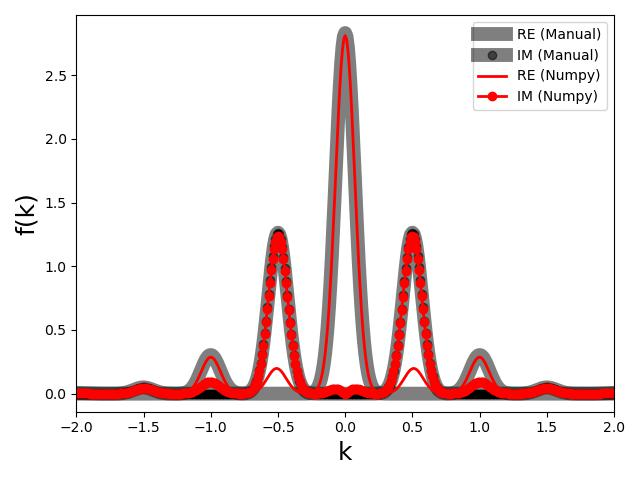
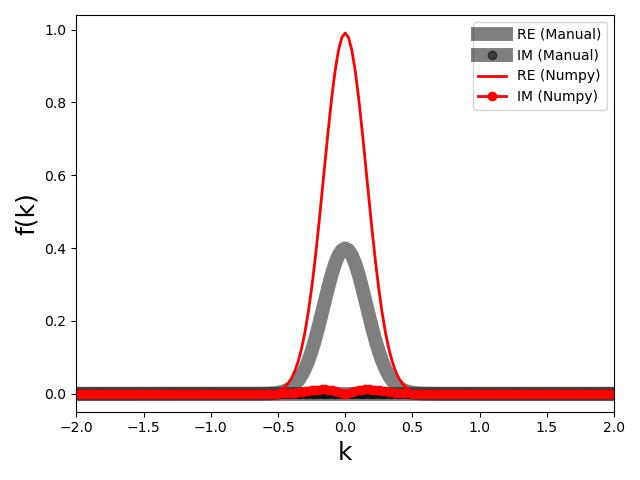
Updated

diff --git a/notes/codes/Chapter_4/1_Fourier_Transform_on_a_Discrete_Grid.py b/notes/codes/Chapter_4/1_Fourier_Transform_on_a_Discrete_Grid.py
@@ -16,8 +16,10 @@ def get_f_x():
     global x, dx, Lx, Nx
 
     # Gaussian Function
+    global sigma # For use when plotting the analytic result
+    sigma = 1
     x   = np.linspace(-20,20,1001)
-    f_x = np.sqrt(1/2/np.pi) * np.exp(-x**2 / 2) + 0j
+    f_x = np.sqrt(1/2/np.pi/sigma**2) * np.exp(-x**2 / 2 / sigma**2) + 0j
 
     ## Shifted Gaussian Function
     ## Shift in real-space results is phase change of the DFT
@@ -158,9 +160,6 @@ def plot_f_k(k,f_k,k_np,f_k_np,title):
     plt.plot( k_np,np.abs(f_k_np.real),"-", c='red', lw=2, label="RE (Numpy)" )
     plt.plot( k_np,np.abs(f_k_np.imag), "o-", c='red', lw=2, label="IM (Numpy)" )
 
-    # Gaussian function in k-space -- Analytic Result
-    #plt.plot( k, np.sqrt(1/2/np.pi) * np.exp(-2 * k**2 * np.pi**2), c="green", label="Gaussian" )
-
     plt.legend()
     plt.xlim(-2,2 )
     plt.xlabel("k", fontsize=18)
@@ -176,8 +175,8 @@ def plot_f_k(k,f_k,k_np,f_k_np,title):
     plt.plot( k, f_k.imag, "-", c='red',   lw=2, label="IM" )
 
     # Gaussian function in k-space -- Analytic Result
-    #analytic_func_k = np.sqrt(1/2/np.pi) * np.exp(-2 * k**2 * np.pi**2)
-    #plt.plot( k, analytic_func_k, c="green", label="Gaussian" )
+    analytic_func_k = np.sqrt(1/2/np.pi) * np.exp(-2 * sigma**2 * k**2 * np.pi**2)
+    plt.plot( k, analytic_func_k, "o", c="black", label="Analytic RE" )
 
     # Shifted Gaussian function
     #analytic_func_k = np.sqrt(1/2/np.pi) * np.exp(-2 * k**2 * np.pi**2)
